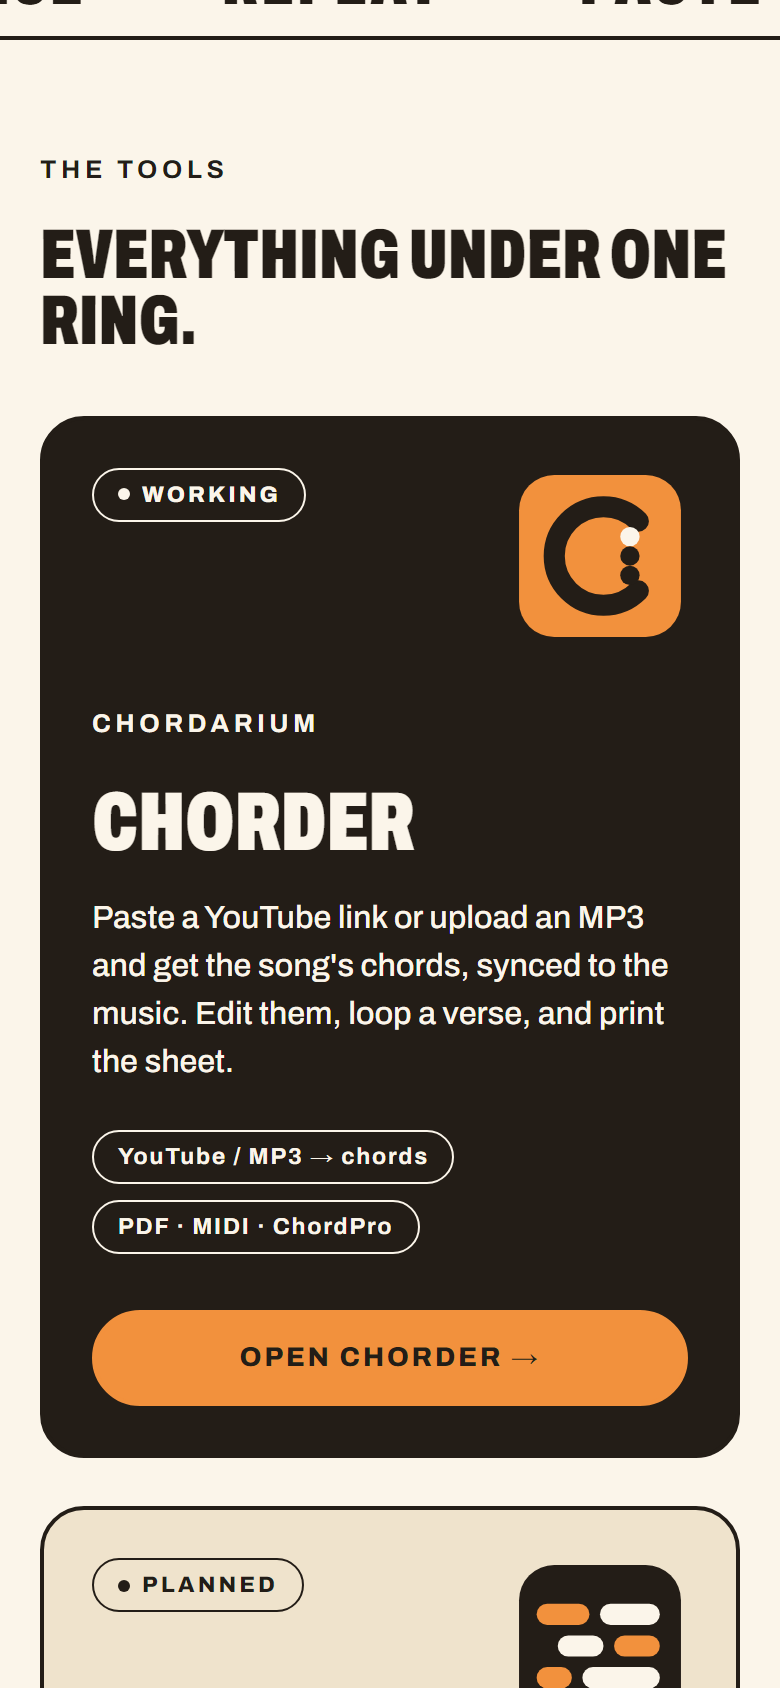
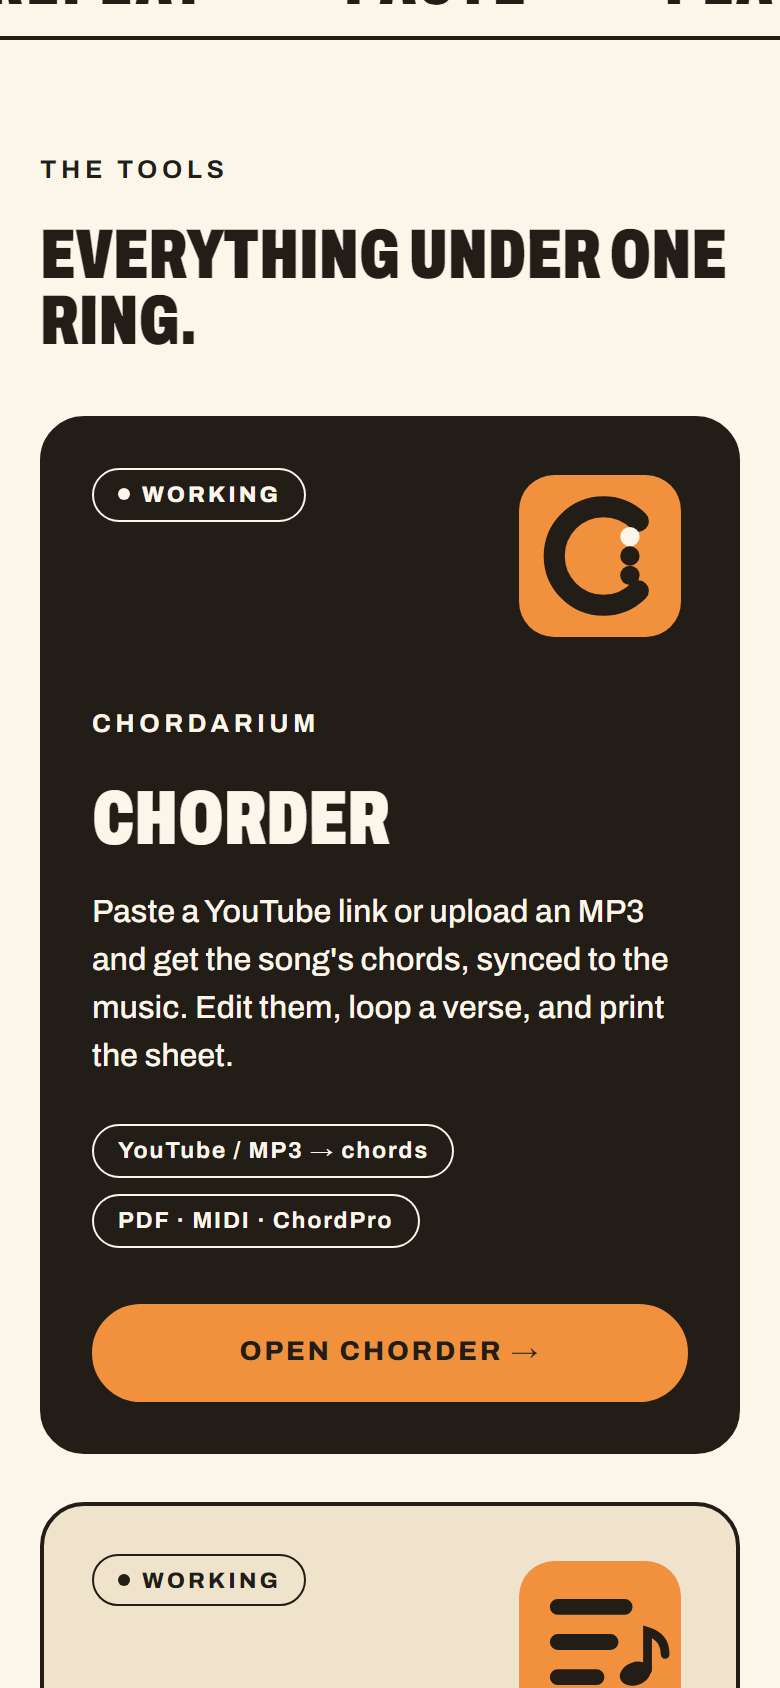
Add Setsmith to the tools section

diff --git a/src/data/projects.ts b/src/data/projects.ts
@@ -1,5 +1,5 @@
 export interface Project {
-  id: 'chorder' | 'studio' | 'songbooks'
+  id: 'chorder' | 'setsmith' | 'studio' | 'songbooks'
   title: string
   eyebrow: string
   status: string
@@ -22,6 +22,16 @@ export const PROJECTS: Project[] = [
     blurb: "Paste a YouTube link or upload an MP3 and get the song's chords, synced to the music. Edit them, loop a verse, and print the sheet.",
     tags: ['YouTube / MP3 → chords', 'PDF · MIDI · ChordPro'],
     dark: true,
+  },
+  {
+    id: 'setsmith',
+    title: 'SETSMITH',
+    eyebrow: 'FASTUNES',
+    status: 'WORKING',
+    cta: 'OPEN SETSMITH',
+    href: 'https://setsmith.lapalu.me',
+    blurb: 'Plan a live band setlist: split the night into sessions, add songs from YouTube, assign singers, see BPM and key, then send the band a PDF.',
+    tags: ['Setlists', 'BPM & key', 'PDF export'],
   },
   {
     id: 'studio',

diff --git a/src/components/logos/index.tsx b/src/components/logos/index.tsx
@@ -22,6 +22,15 @@ export const ChorderLogo = (p: P) => (
   </Svg>
 )
 
+export const SetsmithLogo = (p: P) => (
+  <Svg {...p}>
+    <path d={TILE} fill="var(--amber)" />
+    <path d="M26 30H64M26 50H56M26 70H48" stroke="var(--ink)" strokeWidth="9" strokeLinecap="round" />
+    <ellipse cx="70" cy="68" rx="9" ry="6.5" fill="var(--ink)" transform="rotate(-20 70 68)" />
+    <path d="M77 66V44q10 3 10 13" fill="none" stroke="var(--ink)" strokeWidth="5" strokeLinecap="round" />
+  </Svg>
+)
+
 export const StudioLogo = (p: P) => (
   <Svg {...p}>
     <path d={TILE} fill="var(--ink)" />
@@ -55,4 +64,4 @@ export const CMark = ({ size = 70 }: P) => (
   </svg>
 )
 
-export const LOGOS = { chorder: ChorderLogo, studio: StudioLogo, songbooks: SongbookLogo }
+export const LOGOS = { chorder: ChorderLogo, setsmith: SetsmithLogo, studio: StudioLogo, songbooks: SongbookLogo }

diff --git a/src/styles/global.css b/src/styles/global.css
@@ -340,7 +340,7 @@ body { font-family: 'Archivo', system-ui, sans-serif; font-weight: 500; line-hei
 .card-status { display: inline-flex; align-items: center; gap: 6px; border-width: 1.5px; }
 .card-status::before { content: ''; width: 6px; height: 6px; border-radius: 50%; background: currentColor; }
 .card-top { flex-direction: row-reverse; }
-.card-title { font-size: clamp(2.6rem, 4vw, 3.4rem); }
+.card-title { font-size: clamp(2.4rem, 2.7vw, 3.4rem); overflow-wrap: anywhere; }
 .card-dark .btn-cream { background: var(--amber); border-color: var(--amber); color: var(--ink); }
 .card .btn { margin-top: auto; }
 .tags li { border-width: 1px; }

diff --git a/README.md b/README.md
@@ -12,6 +12,7 @@
 |---|---|
 | **Chordarium hub** | https://chordarium.lapalu.me |
 | **Chorder** (YouTube link or MP3 to synced chords) | https://chordariumchorder.lapalu.me |
+| **Setsmith** (setlist planner for live bands) | https://setsmith.lapalu.me ([source](https://github.com/LapaluLiyanage/setsmith)) |
 
 ## Screenshots
 
@@ -21,7 +22,7 @@
 
 ### The tools
 
-Chorder is working today. Studio and Songbooks are on the way.
+Chorder and Setsmith are working today. Studio and Songbooks are on the way.
 
 ![The tools: Chorder, Studio, Songbooks](docs/screenshots/tools.png)
 
